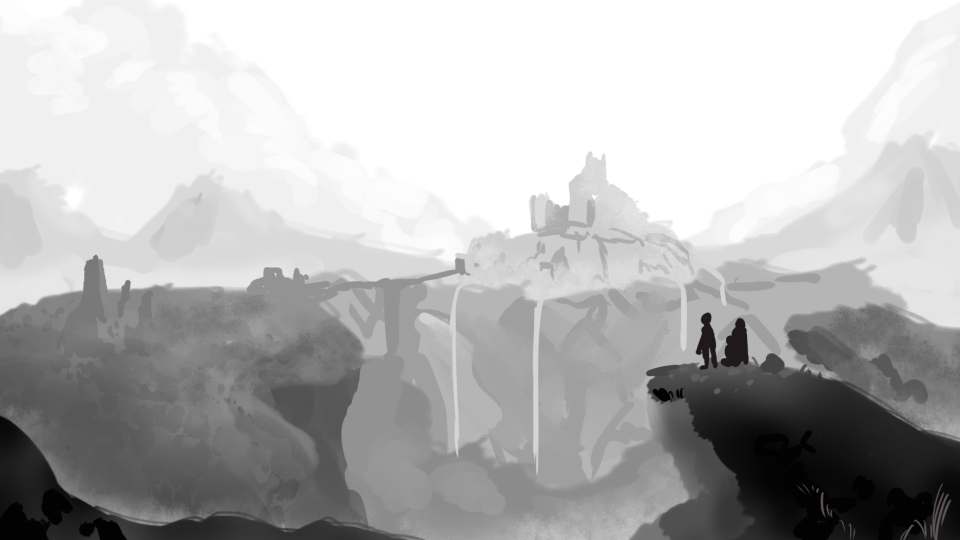
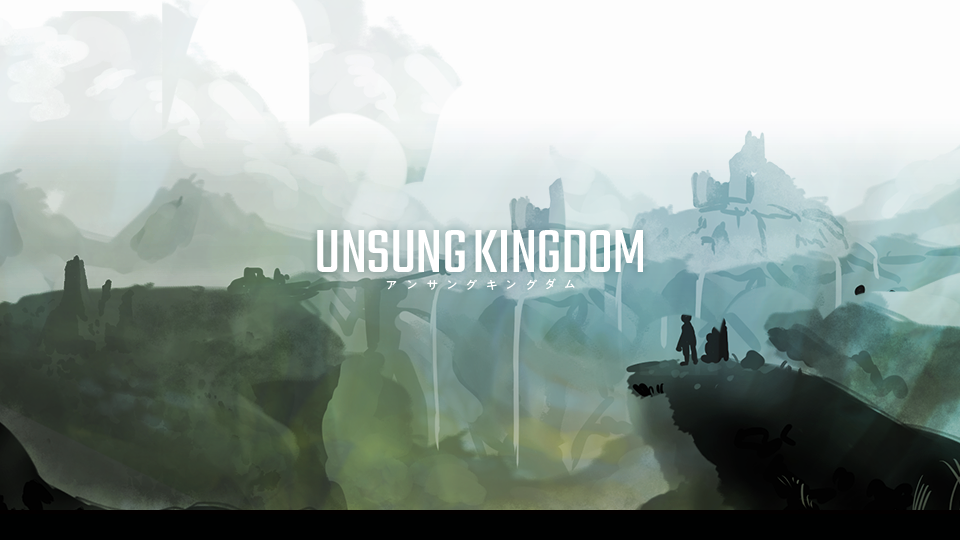
title

diff --git a/src/class/TitleScene.js b/src/class/TitleScene.js
@@ -44,7 +44,7 @@ export default class TitleScene extends Phaser.Scene {
   }
   content () {
     this.add.sprite(0, 0, 'title').setOrigin(0, 0)
-    this.title = this.add.text(config.WIDTH.half, config.HEIGHT.half -120, 'UNSUNG KINGDOM', { align: 'center', fontSize: 50, fontFamily: config.FONTS.UI, fill: 0xAAAAAA.toColorString }).setOrigin(0.5, 0.5)
+    // this.title = this.add.text(config.WIDTH.half, config.HEIGHT.half -120, 'UNSUNG KINGDOM', { align: 'center', fontSize: 50, fontFamily: config.FONTS.UI, fill: 0xAAAAAA.toColorString }).setOrigin(0.5, 0.5)
     this.list = [
       { text: 'New Game', callback: this.newGame },
       { text: 'Continue', callback: this.loadData }
